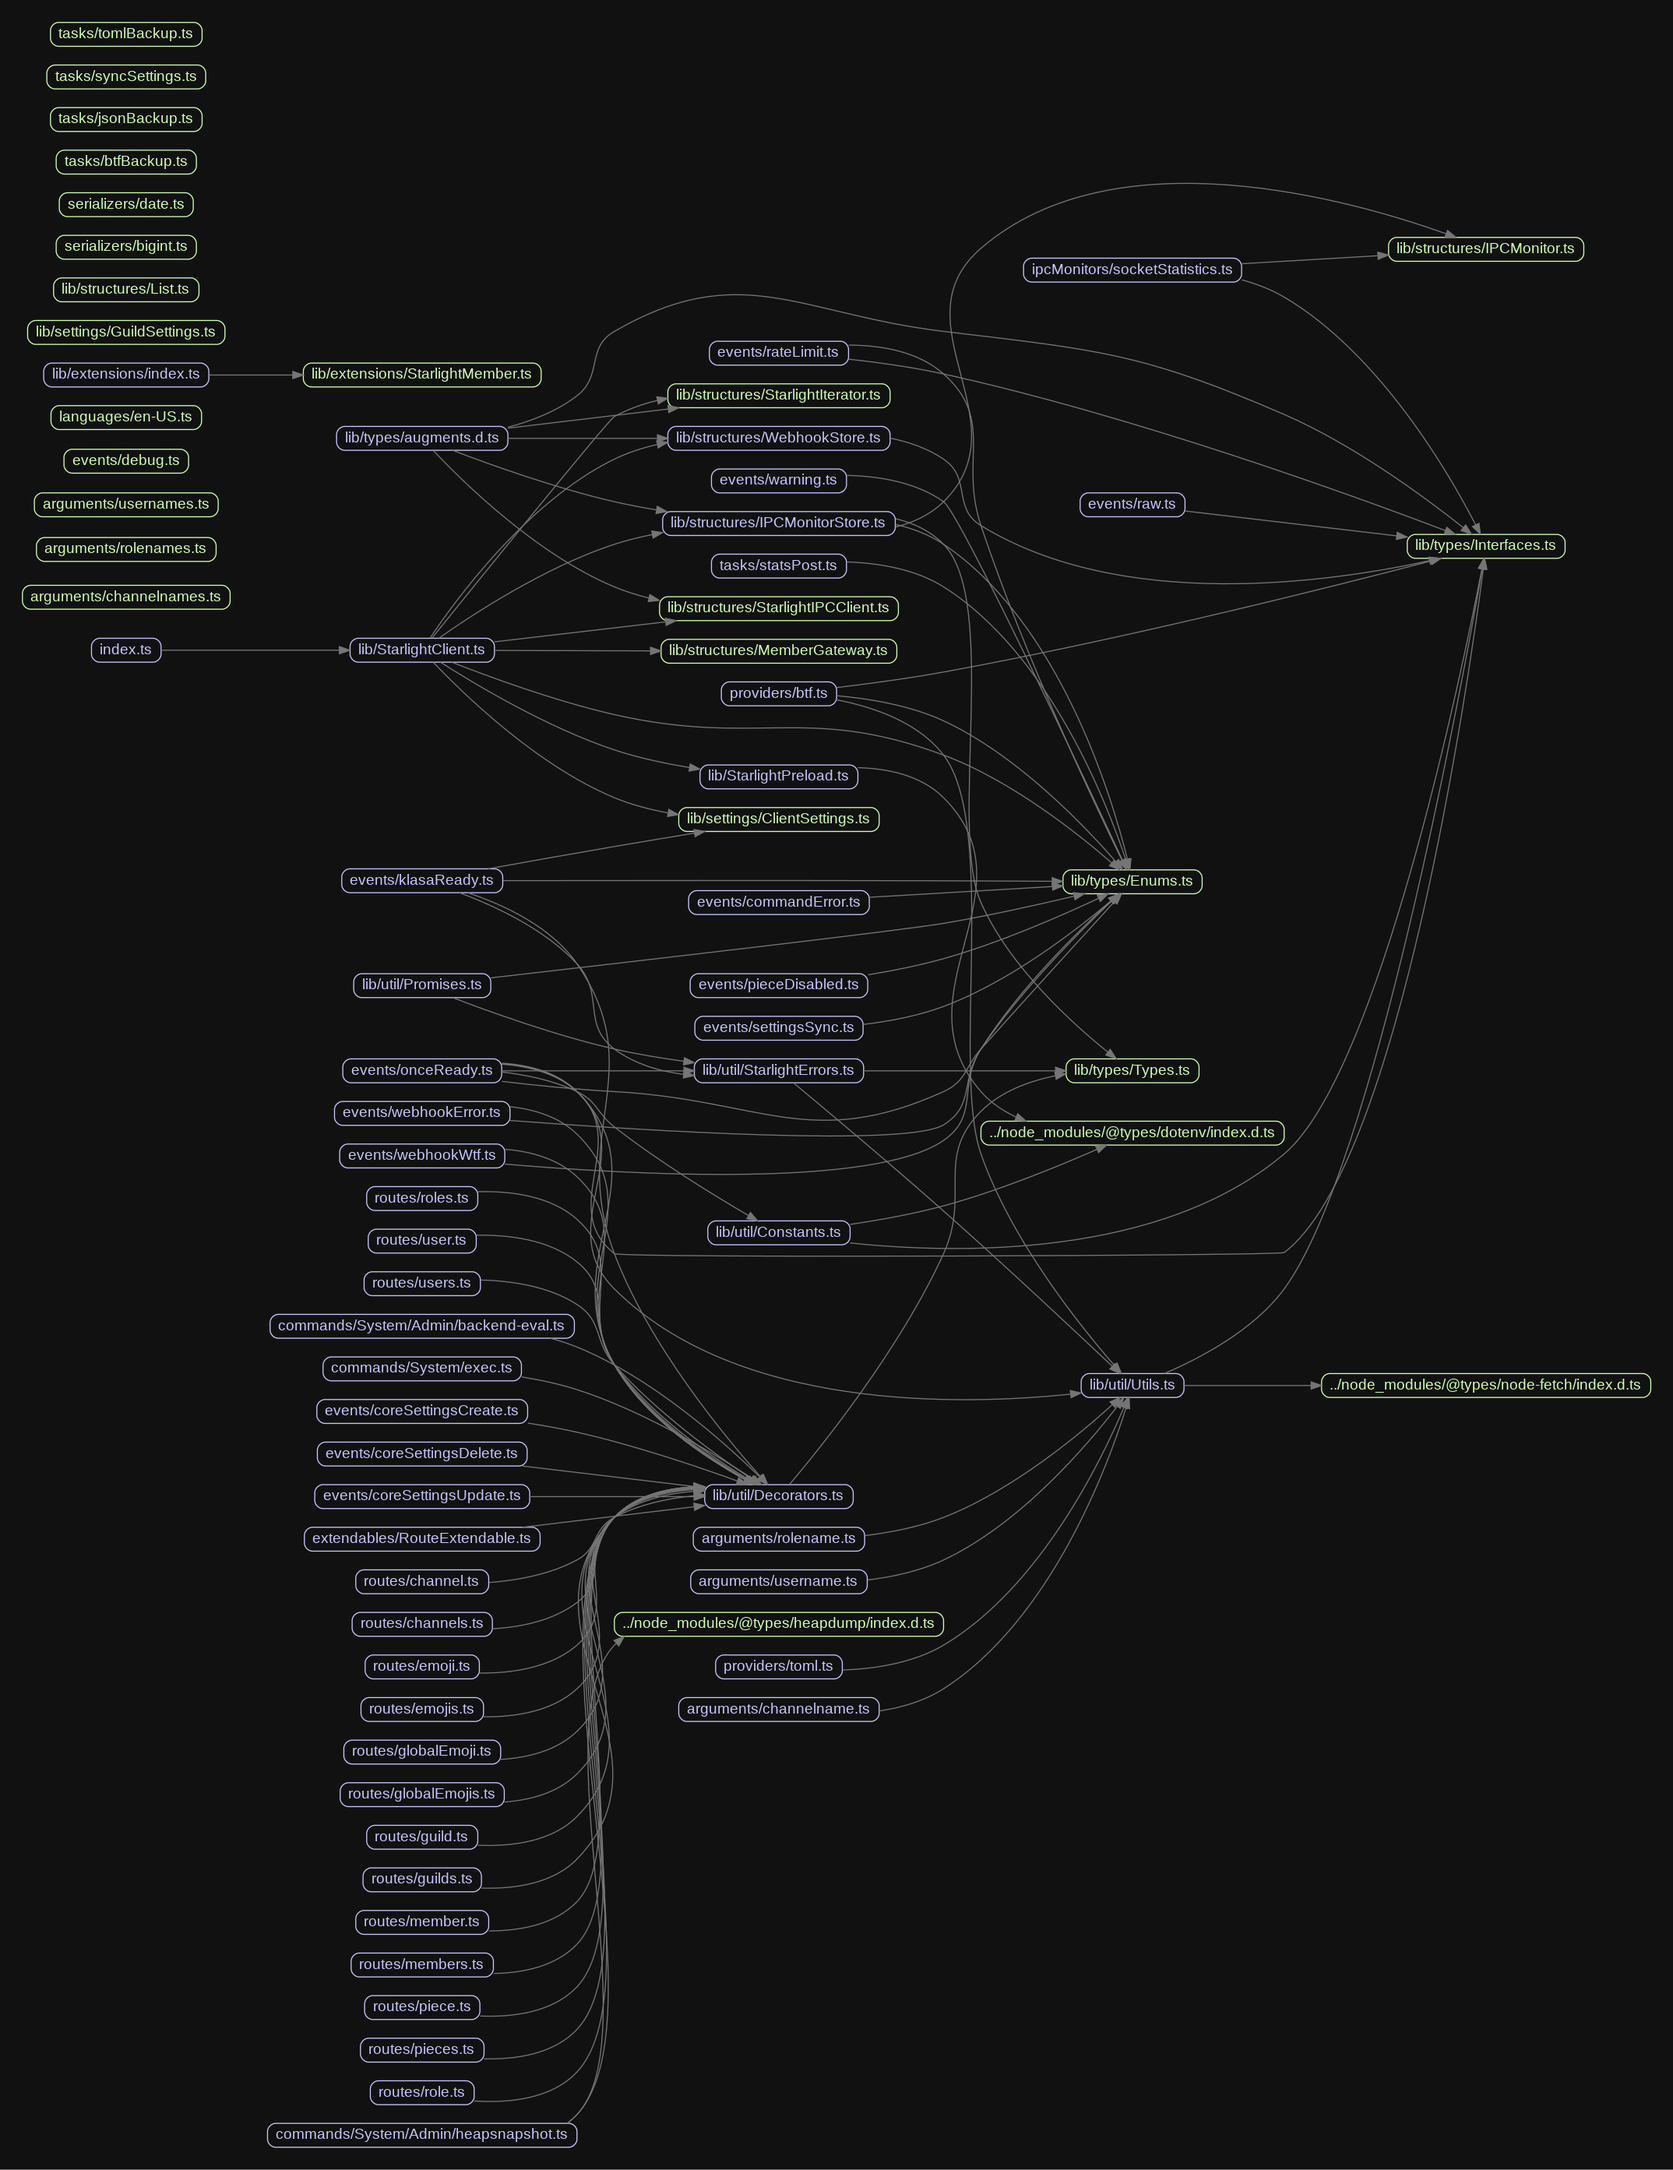
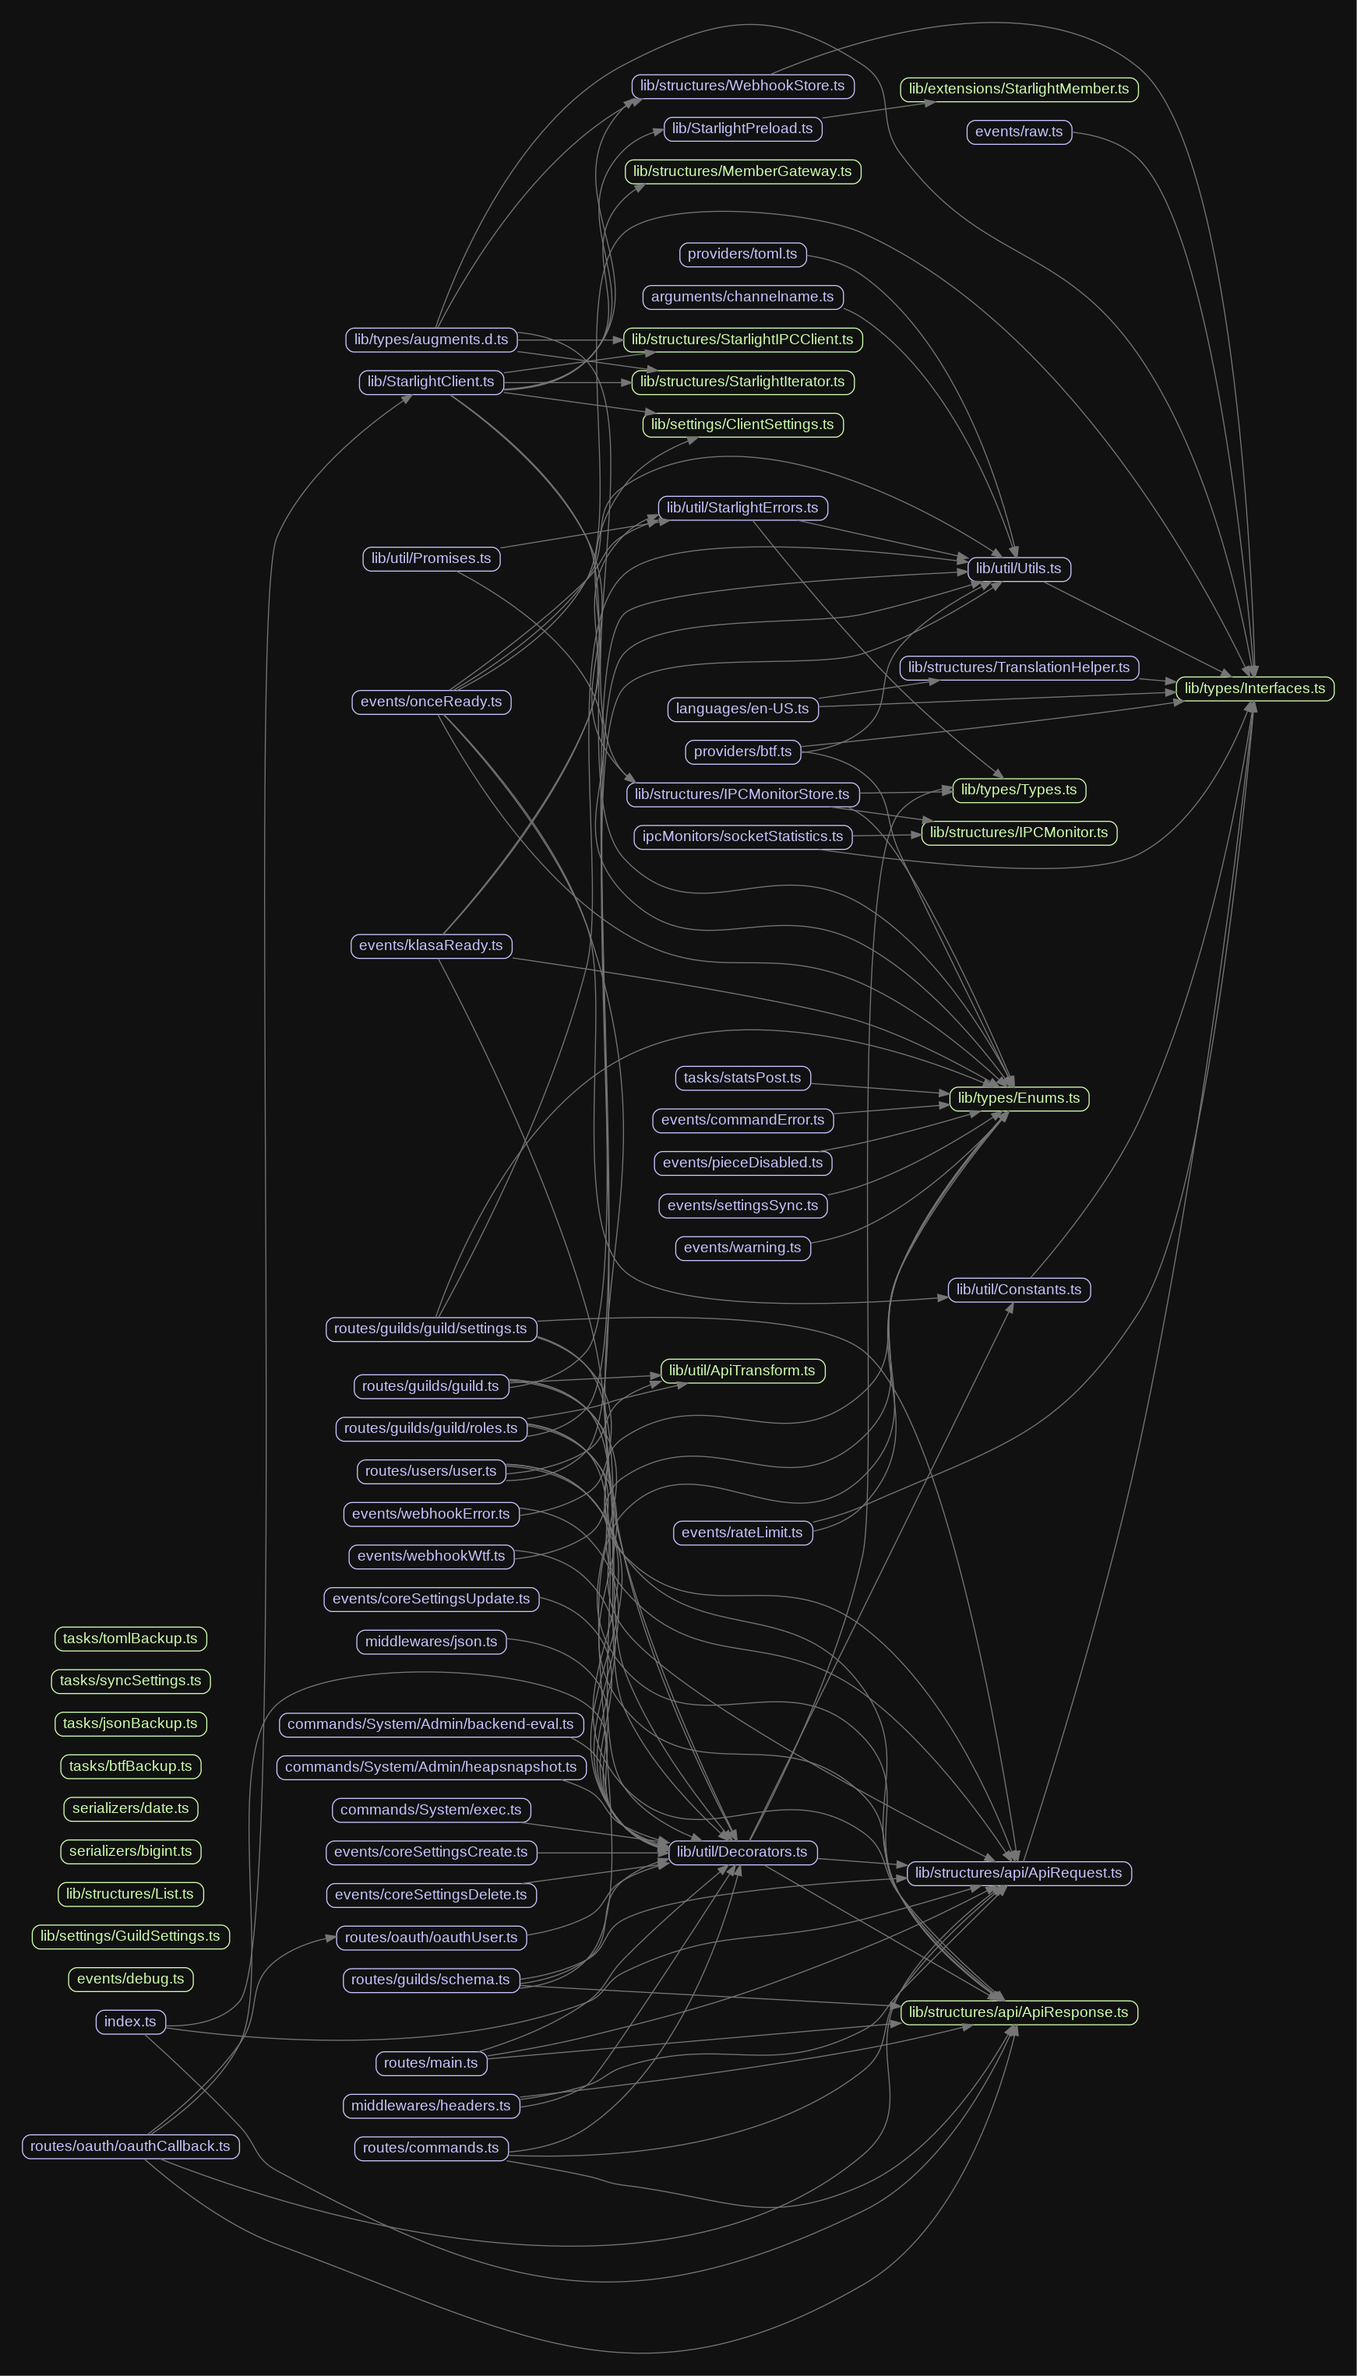
src: add more routes and graph

diff --git a/src/routes/oauth/oauthCallback.ts b/src/routes/oauth/oauthCallback.ts
@@ -1,0 +1,55 @@
+import fetch from 'node-fetch'
+import { URL } from 'url'
+import { Route, RouteOptions, Util } from 'klasa-dashboard-hooks'
+import { ApplyOptions, rateLimit } from '../../lib/util/Decorators'
+import { ApiRequest } from '../../lib/structures/api/ApiRequest'
+import { ApiResponse } from '../../lib/structures/api/ApiResponse'
+import OauthUser from './oauthUser';
+
+@ApplyOptions<RouteOptions>({
+    route: 'oauth/callback'
+})
+export default class extends Route {
+    @rateLimit(2, 60000)
+    public async post(request: ApiRequest, response: ApiResponse): Promise<void> {
+        const requestBody = request.body as Record<string, string>;
+        if (!requestBody.code) {
+            response.error(400);
+            return;
+        }
+
+        const url = new URL('https://discordapp.com/api/oauth2/token');
+        url.searchParams.append('grant_type', 'authorization_code');
+        url.searchParams.append('redirect_uri', requestBody.redirect_uri);
+        url.searchParams.append('code', requestBody.code);
+
+        const res = await fetch(url as URL, {
+            headers: { Authorization: `Basic ${Buffer.from(`${this.client.options.clientID}:${this.client.options.clientSecret}`).toString('base64')}` },
+            method: 'POST'
+        });
+
+        if (!res.ok) {
+            this.client.console.log(await res.text());
+            response.error('There was an error fetching the token.');
+            return;
+        }
+
+        const oauthUser = this.store.get('oauthUser') as unknown as OauthUser;
+
+        if (!oauthUser) {
+            response.error(500);
+            return;
+        }
+
+        const body = await res.json();
+        const user = await oauthUser.api(body.access_token);
+
+        response.json(({
+            access_token: Util.encrypt({
+                user_id: user.id,
+                token: body.access_token
+            }, this.client.options.clientSecret),
+            user
+        }));
+    }
+}

diff --git a/src/routes/guilds/guild/roles.ts b/src/routes/guilds/guild/roles.ts
@@ -1,0 +1,29 @@
+import { Route, RouteOptions } from 'klasa-dashboard-hooks'
+import { Permissions } from 'discord.js'
+import { ApplyOptions } from '../../../lib/util/Decorators'
+import { ApiResponse } from '../../../lib/structures/api/ApiResponse'
+import { ApiRequest } from '../../../lib/structures/api/ApiRequest'
+import { noop } from '../../../lib/util/Utils'
+import { flattenRole } from '../../../lib/util/ApiTransform'
+
+const { FLAGS: { MANAGE_GUILD } } = Permissions
+
+@ApplyOptions<RouteOptions>({
+    route: 'guilds/:guild/roles'
+})
+export default class extends Route {
+    public async get(request: ApiRequest, response: ApiResponse): Promise<void> {
+        const guildID = request.params.guild;
+
+        const guild = this.client.guilds.get(guildID);
+        if (!guild) return response.error(400);
+
+        const member = await guild.members.fetch(request.auth!.user_id).catch(noop);
+        if (!member) return response.error(400);
+
+        const canManage = member.permissions.has(MANAGE_GUILD);
+        if (!canManage) return response.error(401);
+
+        return response.json(guild.roles.map(flattenRole));
+    }
+}

diff --git a/src/lib/structures/TranslationHelper.ts b/src/lib/structures/TranslationHelper.ts
@@ -39,14 +39,18 @@ export class TranslationHelper {
 	}
 
 	public toJSON(): TranslationHelperJSON {
-		const translations: Record<string, string> = {};
-		const defaults: Record<string, string> = {};
-		for (const [key, val] of this.translations) translations[key] = val;
-		for (const [key, val] of this.defaults) defaults[key] = val;
+		// const translations: Record<string, string> = {};
+		// const defaults: Record<string, string> = {};
+		// for (const [key, val] of this.translations) translations[key] = val;
+		// for (const [key, val] of this.defaults) defaults[key] = val;
 		return {
 			language: this.lang,
-			translations,
-			defaults
+			translations: this.translations.reduce((prev, [key, val]) => {
+				return { [key]: val, ...prev };
+			}, {}),
+			defaults: this.defaults.reduce((prev, [key, val]) => {
+				return { [key]: val, ...prev };
+			}, {})
 		};
 	}
 

diff --git a/src/routes/oauth/oauthUser.ts b/src/routes/oauth/oauthUser.ts
@@ -1,0 +1,18 @@
+import { DashboardUser, Route, RouteOptions } from 'klasa-dashboard-hooks';
+import fetch from 'node-fetch';
+import { ApplyOptions } from '../../lib/util/Decorators';
+
+@ApplyOptions<RouteOptions>({
+    route: 'oauth/user'
+})
+export default class extends Route {
+    public async api(token: string): Promise<DashboardUser> {
+        token = `Bearer ${token}`;
+
+        const user = await fetch('https://discordapp.com/api/users/@me', { headers: { Authorization: token } })
+            .then((res): Promise<any> => res.json());
+        user.guilds = await fetch('https://discordapp.com/api/users/@me/guilds', { headers: { Authorization: token } })
+            .then(result => result.json());
+        return this.client.dashboardUsers.add(user);
+    }
+}

diff --git a/src/index.ts b/src/index.ts
@@ -4,7 +4,7 @@ import { StarlightClient } from './lib/StarlightClient';
 import { ApiRequest } from './lib/structures/api/ApiRequest';
 import { ApiResponse } from './lib/structures/api/ApiResponse';
 
-const { PREFIX: prefix, TOKEN: token } = process.env;
+const { PREFIX: prefix, TOKEN: token, CLIENT_SECRET: clientSecret, CLIENT_ID: clientID } = process.env;
 
 const serverOptions: ServerOptions = {
 	IncomingMessage: ApiRequest,
@@ -58,5 +58,7 @@ new StarlightClient({
 	dashboardHooks: {
 		apiPrefix: '/',
 		serverOptions
-	}
+	},
+	clientSecret,
+	clientID
 }).login(token);

diff --git a/src/lib/extensions/StarlightMember.ts b/src/lib/extensions/StarlightMember.ts
@@ -1,4 +1,4 @@
-import { GuildMember, Structures } from 'discord.js';
+import { Structures } from 'discord.js';
 
 class StarlightMember extends Structures.get('GuildMember') {
 
@@ -10,6 +10,5 @@ class StarlightMember extends Structures.get('GuildMember') {
 
 }
 
-Structures.extend('GuildMember', (): typeof GuildMember => StarlightMember);
 export { StarlightMember };
 

diff --git a/src/lib/StarlightPreload.ts b/src/lib/StarlightPreload.ts
@@ -1,5 +1,8 @@
 import { config } from 'dotenv';
 import 'reflect-metadata';
-import './extensions';
+import { Structures } from 'discord.js'
+import { StarlightMember } from './extensions/StarlightMember';
+
+Structures.extend('GuildMember', (): typeof StarlightMember => StarlightMember);
 
 config();

diff --git a/src/routes/guilds/guild/settings.ts b/src/routes/guilds/guild/settings.ts
@@ -33,6 +33,8 @@ export default class extends Route {
 		return response.json(guild.settings.toJSON());
 	}
 
+	@authenticated
+	@rateLimit(2, 1000, true)
 	public async post(request: ApiRequest, response: ApiResponse): Promise<void> {
 		const requestBody = request.body as Record<string, string>;
 
